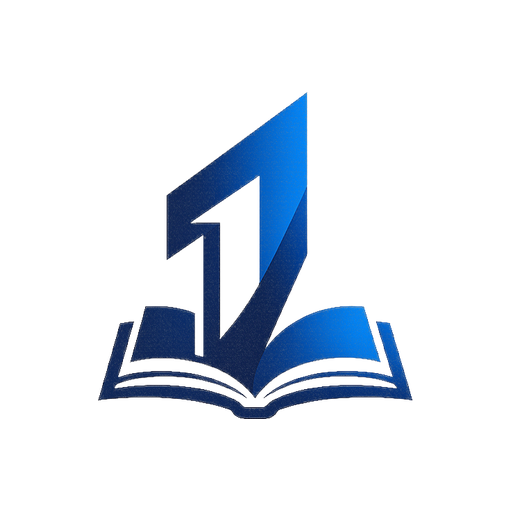
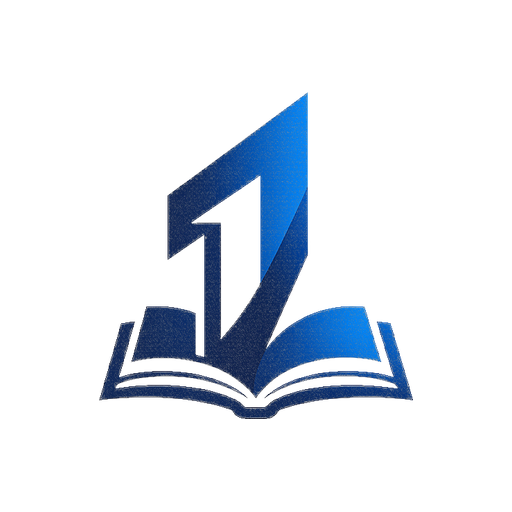
feat: ChapterPrep visual identity, v1.8.0
Replaces the inherited navy and gold palette with the project's own colors,
taken from the logo mark, and documents the release.

- --brand is now blue #1d4ed8 light / #60a5fa dark (sampled from logo-mark.png)
- --accent is now teal #0d9488 light / #2dd4bf dark, replacing gold
- dark --text moves from warm cream #f0ecde to cool #e9eef7, which suited
  the gold accent but not this one
- ambient orbs retinted and toned down; the teal orb was washing the whole
  dark background green
- OG card, favicons and PWA icons regenerated from the same source mark
- medal gold/silver/bronze and --warning amber left alone on purpose: those
  are semantic, not brand

Every pairing WCAG-checked and the new palette scores better than the old:
light brand 6.70:1, light --accent-text 5.47:1, dark accent 10.52:1,
dark button text on accent 10.36:1.

Also:
- version 1.7.0 -> 1.8.0; the July events refresh is recorded as v1.7.1,
  which shipped but was never versioned
- new changelog era card, and the hero count now derives from the array
  (it read "Seven chapters" while the array held eight)
- README and CLAUDE.md palette docs updated

diff --git a/app/globals.css b/app/globals.css
@@ -3,7 +3,9 @@
 /* ─────────────────────────────────────────────────────────────
    ChapterPrep - global styles
    Light + dark theme via [data-theme] attribute on <html>
-   Palette: navy #003c7e (brand) + gold #ffb81c (accent)
+   Palette: blue #1d4ed8 / #60a5fa (brand, taken from the logo mark) +
+   teal #0d9488 / #2dd4bf (accent). Medal and warning colors stay
+   semantic (gold/silver/bronze, amber) and are not brand colors.
 ───────────────────────────────────────────────────────────── */
 
 html {
@@ -21,7 +23,7 @@ body {
   --bg2:         #f7f9fc;
   --bg3:         #e7edf6;
   --border:      #d6deeb;
-  --border2:     rgba(0, 60, 126, 0.18);
+  --border2:     rgba(29, 78, 216, 0.18);
   --border-dim:  #e2e8f3;
 
   --text:        #0b1a33;
@@ -35,20 +37,20 @@ body {
   --red:         #c0392b;
   --red-rgb:     192, 57, 43;
 
-  --accent:      #c8881a;
-  --accent-rgb:  200, 136, 26;
-  --accent-text: #8b5e0d;
+  --accent:      #0d9488;
+  --accent-rgb:  13, 148, 136;
+  --accent-text: #0f766e;
   --medal-gold:   #a67c00;
   --medal-silver: #6b7280;
   --medal-bronze: #8a5a2b;
-  --accent-dim:  rgba(200, 136, 26, 0.1);
-  --accent-border: rgba(200, 136, 26, 0.32);
-  --accent-glow: 0 0 24px rgba(200, 136, 26, 0.28);
+  --accent-dim:  rgba(13, 148, 136, 0.1);
+  --accent-border: rgba(13, 148, 136, 0.32);
+  --accent-glow: 0 0 24px rgba(13, 148, 136, 0.28);
 
-  --brand:       #003c7e;
-  --brand-rgb:   0, 60, 126;
-  --brand-dim:   rgba(0, 60, 126, 0.08);
-  --brand-border: rgba(0, 60, 126, 0.28);
+  --brand:       #1d4ed8;
+  --brand-rgb:   29, 78, 216;
+  --brand-dim:   rgba(29, 78, 216, 0.08);
+  --brand-border: rgba(29, 78, 216, 0.28);
 
   --warning:     #c17c20;
 
@@ -84,11 +86,11 @@ body {
   --bg2:         #0a1322;
   --bg3:         #11203a;
   --border:      rgba(255, 255, 255, 0.07);
-  --border2:     rgba(255, 184, 28, 0.18);
+  --border2:     rgba(45, 212, 191, 0.18);
   --border-dim:  rgba(255, 255, 255, 0.05);
 
-  --text:        #f0ecde;
-  --text1:       #f0ecde;
+  --text:        #e9eef7;
+  --text1:       #e9eef7;
   --text2:       #b3bccd;
   --text3:       #828ca8;
   --text-muted:  #7c87a2;
@@ -98,20 +100,20 @@ body {
   --red:         #e05c5c;
   --red-rgb:     224, 92, 92;
 
-  --accent:      #ffb81c;
-  --accent-rgb:  255, 184, 28;
-  --accent-text: #ffb81c;
+  --accent:      #2dd4bf;
+  --accent-rgb:  45, 212, 191;
+  --accent-text: #2dd4bf;
   --medal-gold:   #d4af37;
   --medal-silver: #aab4c2;
   --medal-bronze: #c07f3c;
-  --accent-dim:  rgba(255, 184, 28, 0.1);
-  --accent-border: rgba(255, 184, 28, 0.32);
-  --accent-glow: 0 0 30px rgba(255, 184, 28, 0.32);
+  --accent-dim:  rgba(45, 212, 191, 0.1);
+  --accent-border: rgba(45, 212, 191, 0.32);
+  --accent-glow: 0 0 30px rgba(45, 212, 191, 0.32);
 
-  --brand:       #5d9ce4;
-  --brand-rgb:   93, 156, 228;
-  --brand-dim:   rgba(93, 156, 228, 0.12);
-  --brand-border: rgba(93, 156, 228, 0.32);
+  --brand:       #60a5fa;
+  --brand-rgb:   96, 165, 250;
+  --brand-dim:   rgba(96, 165, 250, 0.12);
+  --brand-border: rgba(96, 165, 250, 0.32);
 
   --warning:     #e09a3e;
 

diff --git a/app/(marketing)/changelog/page.tsx b/app/(marketing)/changelog/page.tsx
@@ -142,7 +142,32 @@ const ERAS: Era[] = [
     ],
     tags: ["Chapter", "Learning", "Audit"],
   },
+  {
+    num: "08",
+    name: "ChapterPrep",
+    versions: "v1.7 - v1.8",
+    dateRange: "Jun 11 - Sep 25, 2026",
+    intro:
+      "Hardening, correct arithmetic in every AI test, and then a new name. The platform became ChapterPrep and moved to its own identity.",
+    highlights: [
+      "Renamed to ChapterPrep at chapterprep.com, with every account and practice log carried over",
+      "A new visual identity in brand blue and teal, checked against WCAG AA throughout",
+      "Practice test math is now exact: a real expression evaluator verifies every computed answer",
+      "Bot protection on sign-in and a strict Content Security Policy in production",
+      "An in-test stopwatch, weak-topic drills, and a regional registration export for advisors",
+      "The competitive events registry rebuilt to the official 2025-26 list, all 76 events",
+    ],
+    tags: ["Rebrand", "Security", "Accuracy"],
+  },
 ];
+
+// Spelled-out count so the hero line can never drift from the array again
+// (it said "Seven chapters" while ERAS held eight).
+const NUMBER_WORDS = [
+  "Zero", "One", "Two", "Three", "Four", "Five", "Six",
+  "Seven", "Eight", "Nine", "Ten", "Eleven", "Twelve",
+];
+const ERA_COUNT_WORD = NUMBER_WORDS[ERAS.length] ?? String(ERAS.length);
 
 export default function ChangelogPage() {
   return (
@@ -210,7 +235,7 @@ export default function ChangelogPage() {
                 fontWeight: 700,
               }}
             >
-              Seven chapters · scroll
+              {ERA_COUNT_WORD} chapters · scroll
             </span>
             <svg width="22" height="10" viewBox="0 0 22 10" fill="none">
               <path

diff --git a/components/AmbientOrbs.tsx b/components/AmbientOrbs.tsx
@@ -25,7 +25,7 @@ export function AmbientOrbs() {
           maxWidth: 900,
           maxHeight: 900,
           background:
-            "radial-gradient(circle, rgba(255, 184, 28, 0.22) 0%, rgba(255, 184, 28, 0.08) 35%, transparent 70%)",
+            "radial-gradient(circle, rgba(45, 212, 191, 0.13) 0%, rgba(45, 212, 191, 0.05) 35%, transparent 70%)",
           filter: "blur(60px)",
         }}
       />
@@ -39,7 +39,7 @@ export function AmbientOrbs() {
           maxWidth: 820,
           maxHeight: 820,
           background:
-            "radial-gradient(circle, rgba(93, 156, 228, 0.14) 0%, rgba(93, 156, 228, 0.05) 40%, transparent 75%)",
+            "radial-gradient(circle, rgba(96, 165, 250, 0.14) 0%, rgba(96, 165, 250, 0.05) 40%, transparent 75%)",
           filter: "blur(80px)",
         }}
       />

diff --git a/lib/version.ts b/lib/version.ts
@@ -1,3 +1,3 @@
 // Single source of truth for the app version. Update this on every release so
 // the footer (and anywhere else that shows a version) never drifts again.
-export const APP_VERSION = "1.7.0";
+export const APP_VERSION = "1.8.0";

diff --git a/scripts/regenerate-logo-assets.py b/scripts/regenerate-logo-assets.py
@@ -53,7 +53,7 @@ square(512, 0.18, WHITE).convert("RGB").save("public/icon-512.png")
 W, H = 1200, 630
 og = Image.new("RGB", (W, H), (247, 249, 252))
 d = ImageDraw.Draw(og)
-d.rectangle([0, 0, W, 6], fill=(47, 127, 224))
+d.rectangle([0, 0, W, 6], fill=(13, 148, 136))
 lg = square(300, 0.02)
 og.paste(lg, (150, (H - 300) // 2), lg)
 try:
@@ -62,8 +62,8 @@ try:
 except Exception:
     f_bold = f_tag = ImageFont.load_default()
 tx = 500
-d.text((tx, 240), "Chapter", font=f_bold, fill=(13, 38, 89))
-d.text((tx + d.textlength("Chapter", font=f_bold), 240), "Prep", font=f_bold, fill=(47, 127, 224))
+d.text((tx, 240), "Chapter", font=f_bold, fill=(29, 78, 216))
+d.text((tx + d.textlength("Chapter", font=f_bold), 240), "Prep", font=f_bold, fill=(13, 148, 136))
 d.text((tx, 350), "AI practice tests for competitive events", font=f_tag, fill=(90, 107, 138))
 og.save("public/og-image.png")
 

diff --git a/CLAUDE.md b/CLAUDE.md
@@ -14,7 +14,14 @@ All-in-one platform for FBLA chapters: competition guides, study resources, prep
 
 ## Current focus
 
-**LIVE at [fbla.one](https://fbla.one). Last shipped: v1.7.0 (June 11, 2026) - Turnstile captcha LIVE, CSP enforced, calculator-verified AI tests, owner admin view.** **Migrations: 0001-0017, ALL applied + verified live.** Read the v1.7.0 block first; the v1.6.2/v1.5/v1.4/v1.3 blocks below are accurate history.
+**LIVE at [chapterprep.com](https://chapterprep.com). Last shipped: v1.8.0 (Sept 25, 2026) - the product is now ChapterPrep, off the FBLA name and domain.** **Migrations: 0001-0017, ALL applied + verified live.** Read the v1.8.0 block first; the v1.7.0/v1.6.2/v1.5/v1.4/v1.3 blocks below are accurate history from when the product was called FBLA One at fbla.one. **Do not rewrite that history.** The old name shipped and the record of it stays intact.
+
+> **v1.8.0 - ChapterPrep rebrand (Sept 25, 2026), DONE + deployed + verified live.** The product moved off the FBLA name and the `fbla.one` domain to its own identity, by agreement with FBLA's national office, ahead of an Oct 1 2026 date. `fbla.one` is being transferred to FBLA. (This repo is public - the correspondence and the details behind the change are deliberately not written up here.)
+> - **Name:** `FBLA One` -> **ChapterPrep** across metadata, manifest, marketing copy, auth, tour, onboarding, AI chat prompt, footer and the `Logo` wordmark. The first rename pass was case sensitive and missed the uppercase `FBLA ONE` eyebrow on the auth card plus the admin CSV filename - **always grep case-insensitively (`grep -rni "fbla[ _-]*one"`) when checking for leftovers.**
+> - **Domain:** `fbla.one` -> **chapterprep.com** in `metadataBase`, sitemap, robots, JSON-LD, invite links, `safeNextPath` base and support addresses. Apex is canonical now (www 308s to it), which matches every URL the code emits. `fbla.one` is off the Vercel project and is being transferred to FBLA.
+> - **Palette:** dropped FBLA's navy + gold. `--brand` is now blue `#1d4ed8` / `#60a5fa` taken from the logo mark, `--accent` is teal `#0d9488` / `#2dd4bf`. Dark `--text` moved from warm cream `#f0ecde` to cool `#e9eef7` since the cream existed to pair with gold. All WCAG-checked: light brand 6.70:1, light `--accent-text` 5.47:1, dark accent 10.52:1, dark text on the accent button 10.36:1. Medal gold/silver/bronze and `--warning` amber are **semantic, not brand**, and deliberately stayed.
+> - **Kept deliberately:** the `fbla_*` localStorage keys (renaming them would wipe every existing user's registrations, practice logs and saved resources), all *descriptive* references to FBLA competitive events, and the not-affiliated disclaimer in the footer.
+> - **STILL BROKEN, needs Vinay:** the Cloudflare **Turnstile widget's hostname allowlist still only contains `fbla.one`**, so the widget throws `Error 110200` on chapterprep.com and, because Supabase Auth captcha protection is enabled against it, **sign-in and sign-up both fail**. Fix in the Cloudflare dashboard, not in code. Also `hello@` and `privacy@chapterprep.com` have no MX records so they bounce - and they never worked on fbla.one either, which matters because the privacy policy promises a data-deletion channel there.
 
 > **Unreleased (July 21, 2026) - competitive events registry refresh.** Vinay flagged International Business missing; audit against FBLA's official 2025-26 HS Competitive Events List (76 events) found the registry had drifted to 54 with several renamed/discontinued events. `lib/competitions.ts` is now 76/76 exact: added International Business + 25 other missing events (12 objective-test with full topics/resources, 14 non-objective-test as `coming-soon` stubs); renamed 6 stale entries to current names keeping slugs stable (Accounting I->Accounting, Accounting II->Advanced Accounting, Cyber Security->Cybersecurity, Intro to Business->Introduction to Business Concepts, Business Financial Plan->Financial Planning, Publication Design->Visual Design); removed 5 discontinued events (Financial Math, Intro to Financial Math, Business Calculations, Word Processing, Political Science). `COMPETITION_STATS.total` and the coach's `ELIGIBLE` filter both derive from `COMPETITIONS.length`/format, so counts and AI-practice-test eligibility for the new objective-test events updated with zero other file changes. Verified tsc/lint/build clean (76 SSG detail pages) + live-checked in browser (competitions grid 76/76, International Business stub page, Data Science & AI full page), 0 console errors. See CHANGELOG "Unreleased" for the full list. Not yet committed/pushed.
 
@@ -155,10 +162,10 @@ There's a self-contained integration test pattern (used twice this session to ca
 - `ThemeToggle` is a 36×36 sun/moon icon button.
 
 ### Dark vars
-`--bg: #060c16` (near-black navy), `--accent: #ffb81c` (FBLA gold), `--brand: #5d9ce4` (lighter blue for contrast), `--text: #f0ecde` (warm cream).
+`--bg: #060c16` (near-black navy), `--accent: #2dd4bf` (teal), `--brand: #60a5fa` (lighter blue for contrast), `--text: #e9eef7` (cool off-white).
 
 ### Light vars
-`--bg: #ffffff`, `--accent: #c8881a` (contrast-safe gold), `--brand: #003c7e` (FBLA navy), `--text: #0b1a33` (deep navy text).
+`--bg: #ffffff`, `--accent: #0d9488` (teal; `--accent-text: #0f766e` for AA body text), `--brand: #1d4ed8` (blue, taken from the logo mark), `--text: #0b1a33` (deep navy text).
 
 ---
 

diff --git a/CHANGELOG.md b/CHANGELOG.md
@@ -1,8 +1,33 @@
 # Changelog
 
-All notable changes to FBLA One. Live at [fbla.one](https://fbla.one).
+All notable changes to ChapterPrep. Live at [chapterprep.com](https://chapterprep.com).
 
-## Unreleased - July 21, 2026 - 2025-26 competitive events refresh
+The product shipped as **FBLA One** at `fbla.one` through v1.7.1. It was renamed in v1.8.0. Entries below v1.8.0 use the original name and domain on purpose: that is what was released at the time.
+
+## v1.8.0 - September 25, 2026 - ChapterPrep
+
+The product is now **ChapterPrep**, at **chapterprep.com**. The FBLA name is off the product, the domain, and the branding.
+
+### Why
+The project needed its own identity. "FBLA" is a registered trademark of Future Business Leaders of America, Inc., and building a long-term product around someone else's mark was never the right foundation. ChapterPrep stands on its own, and the name no longer ties the product to a single organization.
+
+### Name and domain
+- `FBLA One` is now `ChapterPrep` across page titles, metadata, the manifest, marketing copy, auth, the guided tour, onboarding, the AI chat assistant and the logo wordmark.
+- `fbla.one` is now `chapterprep.com` in canonical URLs, the sitemap, robots, JSON-LD, chapter invite links, redirect validation and support addresses. The apex is canonical; `www` redirects to it.
+- Existing accounts are untouched. Storage keys kept their original prefix, so every registration, practice log and saved resource carried over.
+
+### New visual identity
+- Brand blue `#1d4ed8` / `#60a5fa`, pulled from the logo mark, replaces the old navy.
+- Teal `#0d9488` / `#2dd4bf` replaces the old gold accent.
+- Dark mode text moved from a warm cream to a cool off-white, which suits the new accent.
+- Every pairing was checked against WCAG AA and the new palette scores higher than the one it replaced: 6.70:1 for brand text in light mode, 10.52:1 for the accent in dark mode.
+- The social preview card, favicons and PWA icons were regenerated from the same source mark.
+- Medal and warning colors are semantic rather than brand, so they were left alone.
+
+### Also
+- Corrected copy that still advertised 55 events; the registry has had 76 since v1.7.1.
+
+## v1.7.1 - July 21, 2026 - 2025-26 competitive events refresh
 
 Registry audited against FBLA's official 2025-26 High School Competitive Events List (76 events) - it had drifted to 54 entries with several renamed/discontinued events. `lib/competitions.ts` now matches exactly, 76 of 76.
 

diff --git a/README.md b/README.md
@@ -1,13 +1,13 @@
-# FBLA One
+# ChapterPrep
 
 AI-powered all-in-one platform for FBLA chapters: competition guides, AI practice tests, prep tracker, deadline calendar, and advisor dashboard.
 
-**Live at [fbla.one](https://fbla.one)** · Pilot: Council Rock High School South · Officer meeting: Aug 25, 2026
+**Live at [chapterprep.com](https://chapterprep.com)** · Pilot: Council Rock High School South
 
 | | |
 |---|---|
 | Repo | `github.com/vinay-batra/fbla-one` (push to `main` -> Vercel auto-deploys) |
-| Hosting | Vercel, domain `fbla.one` (SSL active) |
+| Hosting | Vercel, domain `chapterprep.com` (SSL active) |
 | Database | Supabase project `osxoygndwazbygiqyjhu` (migrations 0001-0017, all applied + verified live: RLS 18/18, leaderboard 8/8, audit-remediation 0017 verified). |
 | Auth | Google OAuth + email/password + magic link + Turnstile (PKCE via `/auth/callback`) |
 | AI | Anthropic `claude-haiku-4-5` -- practice-test generation (`/api/practice-test`, streamed) + public chat (`/api/ai-chat`), via `ANTHROPIC_API_KEY` |
@@ -45,7 +45,7 @@ Sign up (as a student or advisor), pick your event, then everything lives in the
 - **Auth/DB**: Supabase (`@supabase/ssr` + `@supabase/supabase-js`)
 - **AI**: `@anthropic-ai/sdk` -- streaming practice test generation via `/api/practice-test`
 - **Hosting**: Vercel (frontend + edge functions), Supabase Postgres (DB)
-- **Domain**: fbla.one
+- **Domain**: chapterprep.com
 
 ---
 
@@ -106,7 +106,7 @@ notify pgrst, 'reload schema';
 ```
 
 Google OAuth is live. Auth settings: email confirmation **disabled** (instant signup).
-Redirect URLs in Authentication -> URL Configuration: `https://fbla.one/auth/callback` + `http://localhost:3000/auth/callback`.
+Redirect URLs in Authentication -> URL Configuration: `https://chapterprep.com/**`, `https://www.chapterprep.com/**` and `http://localhost:3000/**` (the `/**` matters - a bare origin will not match `/auth/callback`). Site URL: `https://chapterprep.com`.
 
 ---
 
